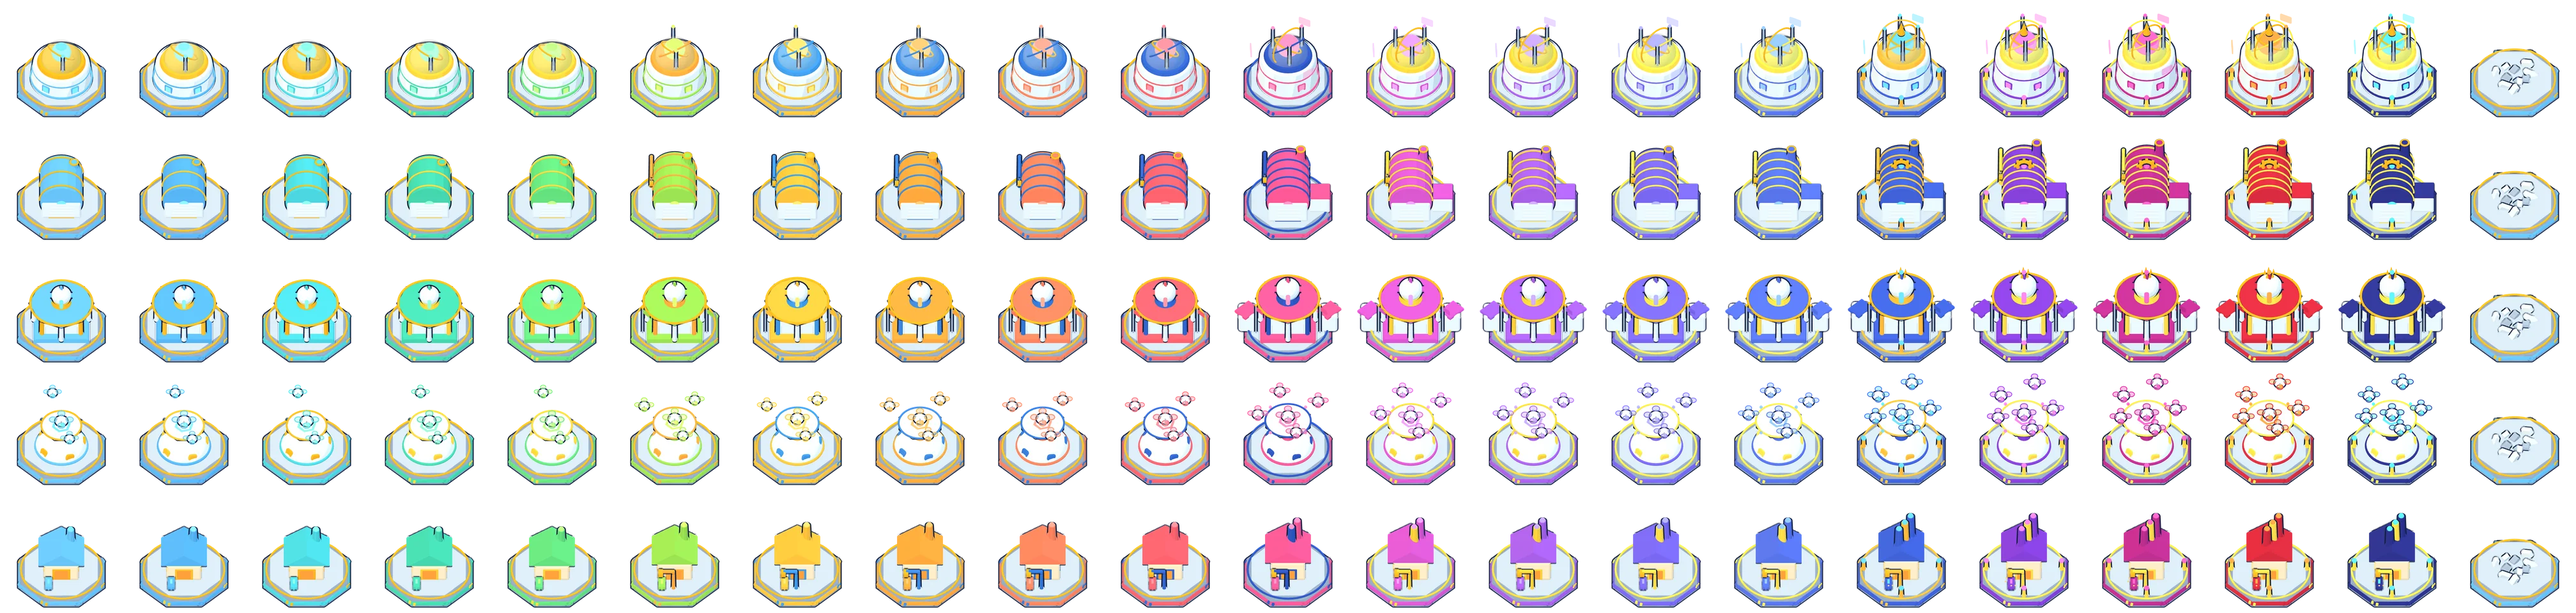
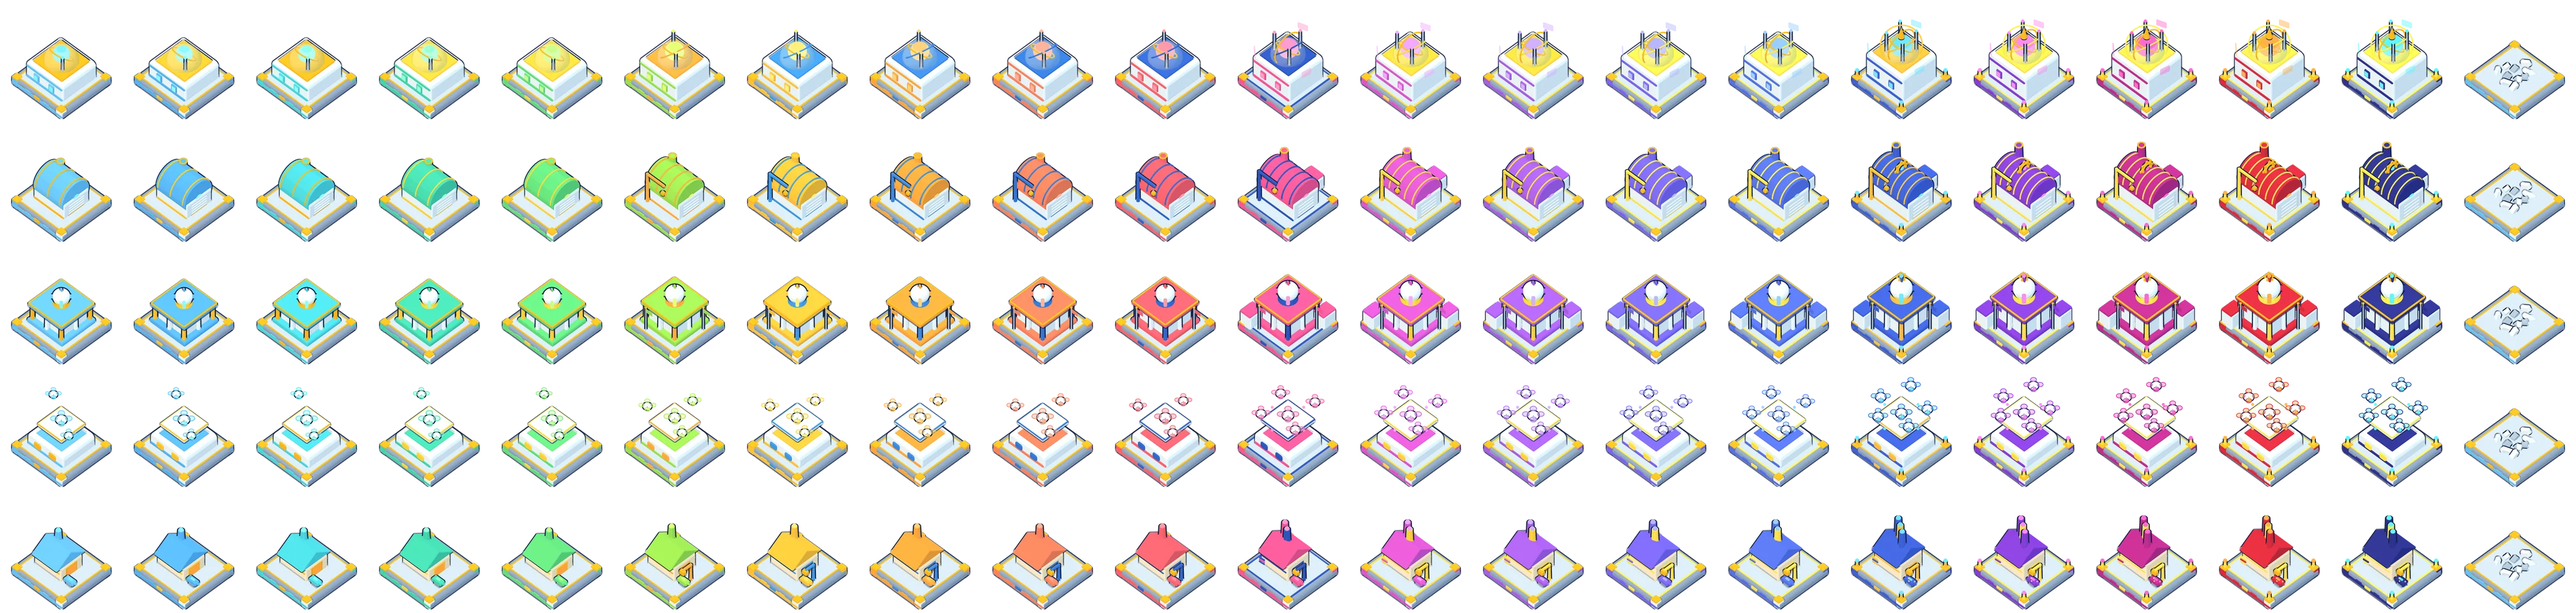
Army/research buildings on square, grid-aligned platforms with square bodies (patch 230)
Claude-Session: https://claude.ai/code/session_01ENEEn5GFJwhnH2TVtQL75A

diff --git a/features/render3d/army428.html b/features/render3d/army428.html
@@ -40,20 +40,24 @@ let cur=null;
 function mats(lv){const p=PAL[Math.max(1,Math.min(20,lv))-1];return {A:M(p[0]),B:M(p[1]),G:new T.MeshBasicMaterial({color:p[2]}),GL:new T.MeshBasicMaterial({color:p[2],transparent:true,opacity:0.45}),glow:p[2]};}
 function tierOf(lv){return lv>=16?3:lv>=11?2:lv>=6?1:0;}
 function pad(root,m,t){
- const PADM=M(0x8396b4);const p=mesh(lathe([[0,0],[1.95,0],[2.02,0.08],[1.92,0.32],[1.72,0.44],[0,0.44]],8),PADM,root);const top=mesh(cyl(1.7,1.7,0.04,8),M(0xb9c7da),root,0);top.position.y=0.45;top.rotation.y=Math.PI/8;p.rotation.y=Math.PI/8;
- const sk=mesh(lathe([[1.99,0.1],[2.01,0.14],[1.95,0.28],[1.93,0.3]],8),m.A,root,0);sk.rotation.y=Math.PI/8;
- mesh(torus(1.74,0.045),t>=2?m.B:GOLD,root,0).position.y=0.44;
- const n=8;for(let i=0;i<n;i++){const a=i/n*Math.PI*2+Math.PI/8;const tab=mesh(rbox(0.3,0.12,0.06,0.03),i%2?m.B:m.A,root,1);tab.position.set(Math.cos(a)*1.93,0.2,Math.sin(a)*1.93);tab.rotation.y=-a+Math.PI/2;tab.rotation.x=-0.45;}
- if(t>=3)for(let i=0;i<4;i++){const a=i/4*Math.PI*2+Math.PI/4;const l=mesh(cyl(0.07,0.09,0.5,16),m.B,root);l.position.set(Math.cos(a)*1.62,0.68,Math.sin(a)*1.62);const b=new T.Mesh(sph(0.11),m.G);b.position.set(Math.cos(a)*1.62,0.98,Math.sin(a)*1.62);root.add(b);}
+ // square platform that sits on the 2x2 grid tiles (reads as a diamond in the isometric view)
+ const PADM=M(0x8396b4);mesh(rbox(3.3,0.36,3.3,0.12),PADM,root).position.y=0.18;
+ mesh(rbox(3.36,0.12,3.36,0.05),m.A,root,0).position.y=0.12;
+ const top=mesh(rbox(2.98,0.08,2.98,0.04),M(0xb9c7da),root,0);top.position.y=0.4;
+ const tr=t>=2?m.B:GOLD;for(const [x,z,w,d] of [[0,1.48,2.9,0.06],[0,-1.48,2.9,0.06],[1.48,0,0.06,2.9],[-1.48,0,0.06,2.9]])mesh(rbox(w,0.05,d,0.02),tr,root,0).position.set(x,0.45,z);
+ for(const sx of [-1,1])for(const sz of [-1,1]){const c=mesh(rbox(0.34,0.44,0.34,0.06),i2c(m,sx,sz),root);c.position.set(sx*1.5,0.22,sz*1.5);mesh(rbox(0.36,0.06,0.36,0.03),GOLD,root,0).position.set(sx*1.5,0.46,sz*1.5);
+  if(t>=3){const l=mesh(cyl(0.06,0.08,0.4,12),m.B,root);l.position.set(sx*1.5,0.68,sz*1.5);const bb=new T.Mesh(sph(0.1),m.G);bb.position.set(sx*1.5,0.92,sz*1.5);root.add(bb);}}
+ for(let i=0;i<3;i++){const tab=mesh(rbox(0.36,0.14,0.06,0.03),i%2?m.B:m.A,root,0);tab.position.set(-0.6+i*0.6,0.2,1.66);const tab2=mesh(rbox(0.06,0.14,0.36,0.03),i%2?m.B:m.A,root,0);tab2.position.set(1.66,0.2,-0.6+i*0.6);}
 }
+function i2c(m,sx,sz){return (sx+sz)===0?m.A:WHITE;}
 function flag(root,m,x,z,h){const f=new T.Group();f.position.set(x,0.44,z);root.add(f);mesh(cyl(0.035,0.035,h,10),STEEL,f).position.y=h/2;const cl=m.A.clone();cl.side=T.DoubleSide;const fl=mesh(new T.PlaneGeometry(0.42,0.26),cl,f,0);fl.position.set(0.22,h-0.16,0);mesh(sph(0.06),GOLD,f,0).position.y=h+0.03;}
 // 1 อาคารเทคโนโลยี: round lab, glass dome with a glowing energy core, antennas; rings/holo panels with tiers.
 function tech(lv){const m=mats(lv),t=tierOf(lv),o=new T.Group(),r=new T.Group();o.add(r);pad(r,m,t);
  const h=[1.0,1.2,1.4,1.6][t];
- mesh(lathe([[0,0.44],[1.28,0.44],[1.32,0.5],[1.22,0.44+h],[1.05,0.5+h],[0,0.5+h]],40),WHITE,r);
- mesh(torus(1.3,0.06),m.A,r,0).position.y=0.6;mesh(torus(1.2,0.06),m.A,r,0).position.y=0.44+h*0.75;
- for(let i=0;i<6;i++){const a=i/6*Math.PI*2+0.3;const w=mesh(rbox(0.32,0.38,0.08,0.06),m.A,r,0);w.position.set(Math.cos(a)*1.24,0.44+h*0.45,Math.sin(a)*1.24);w.rotation.y=-a+Math.PI/2;const gl=new T.Mesh(rbox(0.22,0.26,0.05,0.04),m.G);gl.position.copy(w.position).multiplyScalar(1.02);gl.rotation.copy(w.rotation);r.add(gl);}
- const top=0.5+h;mesh(cyl(0.98,1.05,0.16,40),m.B,r).position.y=top+0.08;
+ mesh(rbox(2.3,h,2.3,0.16),WHITE,r).position.y=0.44+h/2;
+ mesh(rbox(2.36,0.12,2.36,0.05),m.A,r,0).position.y=0.56;mesh(rbox(2.36,0.1,2.36,0.05),m.A,r,0).position.y=0.44+h*0.82;
+ for(const [x,z,ry] of [[1.16,-0.5,0],[1.16,0.5,0],[-0.5,1.16,Math.PI/2],[0.5,1.16,Math.PI/2]]){const w=mesh(rbox(0.08,0.4,0.34,0.05),m.A,r,0);w.position.set(x,0.44+h*0.45,z);w.rotation.y=ry;const gl=new T.Mesh(rbox(0.06,0.3,0.24,0.04),m.G);gl.position.set(x*1.03,0.44+h*0.45,z*1.03);gl.rotation.y=ry;r.add(gl);}
+ const top=0.44+h;mesh(rbox(1.9,0.16,1.9,0.06),m.B,r).position.y=top+0.08;
  const core=new T.Mesh(sph(0.42+t*0.04),m.G);core.position.y=top+0.62;r.add(core);
  const dome=new T.Mesh(sph(0.86,1,0.95,1),GLASS);dome.position.y=top+0.18;r.add(dome);
  for(let i=0;i<=t;i++){const ring=mesh(new T.TorusGeometry(0.62+i*0.13,0.035,10,48),i%2?m.B:GOLD,r,0);ring.position.y=top+0.62;ring.rotation.set(0.9+i*0.5,i*0.8,0.3*i);}
@@ -64,12 +68,12 @@ function tech(lv){const m=mats(lv),t=tierOf(lv),o=new T.Group(),r=new T.Group();
 // 2 โรงประกอบยานบุก: arched hangar with a big door, crane arm, chimney; more bays with tiers.
 function workshop(lv){const m=mats(lv),t=tierOf(lv),o=new T.Group(),r=new T.Group();o.add(r);pad(r,m,t);
  const L=[1.9,2.1,2.3,2.5][t],W=1.7,H=[0.95,1.05,1.15,1.25][t];
- const body=mesh(rbox(L,H,W,0.12),WHITE,r);body.position.y=0.44+H/2;body.rotation.y=-Math.PI/4;mesh(rbox(L+0.04,0.14,W+0.04,0.05),m.B,r,0).rotation.y=-Math.PI/4;
- const roof=new T.Group();roof.position.y=0.44+H;roof.rotation.y=-Math.PI/4;r.add(roof);
+ const body=mesh(rbox(L,H,W,0.12),WHITE,r);body.position.y=0.44+H/2;body.rotation.y=0;mesh(rbox(L+0.04,0.14,W+0.04,0.05),m.B,r,0).position.y=0.5;
+ const roof=new T.Group();roof.position.y=0.44+H;roof.rotation.y=0;r.add(roof);
  const ar=new T.CylinderGeometry(W/2+0.06,W/2+0.06,L+0.06,40);ar.rotateZ(Math.PI/2);mesh(ar,m.A,roof);
  for(let i=0;i<=t+2;i++){const rib=mesh(new T.TorusGeometry(W/2+0.09,0.035,8,32,Math.PI),m.B,roof,0);rib.rotation.y=Math.PI/2;rib.position.x=-L/2+0.12+i*(L-0.24)/(t+2);}
  // door on the front face (facing camera, +x+z)
- const front=new T.Group();front.rotation.y=-Math.PI/4;front.position.y=0.44;r.add(front);
+ const front=new T.Group();front.rotation.y=0;front.position.y=0.44;r.add(front);
  const door=mesh(rbox(0.06,H*0.8,W*0.66,0.05),m.B,front,1);door.position.set(L/2+0.02,H*0.4,0);
  for(let i=0;i<4;i++){const s=mesh(rbox(0.07,0.04,W*0.6,0.02),WHITE,front,0);s.position.set(L/2+0.05,0.15+i*H*0.18,0);}
  const sign=new T.Mesh(new T.CircleGeometry(0.2,24),m.G);sign.position.set(L/2+0.06,H*0.9+0.05,0);sign.rotation.y=Math.PI/2;front.add(sign);
@@ -84,10 +88,10 @@ function workshop(lv){const m=mats(lv),t=tierOf(lv),o=new T.Group(),r=new T.Grou
 // 3 หอบัญชาการหุ่น: columned hall topped with a mech helmet emblem; wings, banners and crown with tiers.
 function herohall(lv){const m=mats(lv),t=tierOf(lv),o=new T.Group(),r=new T.Group();o.add(r);pad(r,m,t);
  const H=[0.9,1.05,1.2,1.35][t];
- const st=mesh(rbox(2.3,0.24,2.3,0.08),m.A,r);st.position.y=0.56;st.rotation.y=Math.PI/4;
- const hall=mesh(rbox(1.7,H,1.7,0.12),WHITE,r);hall.position.y=0.68+H/2;hall.rotation.y=Math.PI/4;
- for(let i=0;i<8;i++){const a=i/8*Math.PI*2;const c=mesh(cyl(0.09,0.1,H,16),i%2?WHITE:m.B,r);c.position.set(Math.cos(a)*1.18,0.68+H/2,Math.sin(a)*1.18);}
- const roofY=0.68+H;mesh(cyl(1.38,1.3,0.18,8),m.A,r).position.y=roofY+0.09;mesh(torus(1.34,0.05),GOLD,r,0).position.y=roofY+0.18;
+ const st=mesh(rbox(2.3,0.24,2.3,0.08),m.A,r);st.position.y=0.56;
+ const hall=mesh(rbox(1.7,H,1.7,0.12),WHITE,r);hall.position.y=0.68+H/2;
+ for(const [x,z] of [[1,1],[1,-1],[-1,1],[1,0],[0,1],[-1,-1],[-1,0],[0,-1]]){const c=mesh(cyl(0.09,0.1,H,16),(x&&z)?m.B:WHITE,r);c.position.set(x*0.98,0.68+H/2,z*0.98);}
+ const roofY=0.68+H;mesh(rbox(2.25,0.18,2.25,0.06),m.A,r).position.y=roofY+0.09;for(const [x,z,w,d] of [[0,1.12,2.2,0.06],[0,-1.12,2.2,0.06],[1.12,0,0.06,2.2],[-1.12,0,0.06,2.2]])mesh(rbox(w,0.06,d,0.02),GOLD,r,0).position.set(x,roofY+0.19,z);
  // helmet emblem
  const hg=new T.Group();hg.position.y=roofY+0.2;r.add(hg);hg.scale.setScalar(0.85+t*0.08);
  mesh(cyl(0.42,0.5,0.22,24),m.B,hg).position.y=0.11;
@@ -96,17 +100,17 @@ function herohall(lv){const m=mats(lv),t=tierOf(lv),o=new T.Group(),r=new T.Grou
  mesh(rbox(0.1,0.44,0.08,0.04),m.A,hg).position.set(0,0.98,0);
  for(const s of [-1,1]){const ear=mesh(cyl(0.12,0.12,0.12,16),m.A,hg);ear.rotation.z=Math.PI/2;ear.rotation.y=Math.PI/4;ear.position.set(s*0.36,0.55,-s*0.36);}
  if(t>=1){flag(r,m,1.35,-0.6,1.4+t*0.15);flag(r,m,-0.6,1.35,1.4+t*0.15);}
- if(t>=2)for(const s of [-1,1]){const w=mesh(rbox(0.6,H*0.7,0.8,0.1),WHITE,r);w.position.set(s*1.25,0.44+H*0.35,-s*1.25);w.rotation.y=Math.PI/4;mesh(rbox(0.64,0.1,0.84,0.04),m.A,r,0).position.set(s*1.25,0.44+H*0.72,-s*1.25);}
+ if(t>=2)for(const s of [-1,1]){const w=mesh(rbox(0.6,H*0.7,0.8,0.1),WHITE,r);w.position.set(s*1.25,0.44+H*0.35,-s*1.25);mesh(rbox(0.64,0.1,0.84,0.04),m.A,r,0).position.set(s*1.25,0.44+H*0.72,-s*1.25);}
  if(t>=3){const cr=new T.Group();cr.position.y=roofY+0.2+1.25*(0.85+t*0.08);r.add(cr);for(let i=0;i<5;i++){const a=i/5*Math.PI*2;const sp=mesh(new T.ConeGeometry(0.06,0.28,10),GOLD,cr,0);sp.position.set(Math.cos(a)*0.2,0.1,Math.sin(a)*0.2);}const gem=new T.Mesh(sph(0.1),m.G);gem.position.y=0.1;cr.add(gem);}
  return o;}
 // 4 ศูนย์โดรนคู่หู: nest dome with a raised landing pad; hovering mini drones (more with tiers).
 function drone(m,p,parent,s){const g=new T.Group();g.position.copy(p);g.scale.setScalar(s);parent.add(g);mesh(sph(0.22,1,0.55,1),WHITE,g);const e=new T.Mesh(sph(0.08),m.G);e.position.set(0.17,0.02,0.1);g.add(e);
  for(let i=0;i<4;i++){const a=i/4*Math.PI*2+Math.PI/4;mesh(cyl(0.025,0.025,0.26,6),STEEL,g,0).position.set(Math.cos(a)*0.17,0.04,Math.sin(a)*0.17);const rot=new T.Mesh(cyl(0.13,0.13,0.015,20),m.GL);rot.position.set(Math.cos(a)*0.3,0.08,Math.sin(a)*0.3);g.add(rot);mesh(torus(0.13,0.015),m.A,g,0).position.set(Math.cos(a)*0.3,0.08,Math.sin(a)*0.3);}}
 function dronehub(lv){const m=mats(lv),t=tierOf(lv),o=new T.Group(),r=new T.Group();o.add(r);pad(r,m,t);
- const nest=mesh(sph(1.12,1,0.62,1),WHITE,r);nest.position.y=0.44;mesh(torus(1.1,0.07),m.A,r,0).position.y=0.5;
- for(let i=0;i<5;i++){const a=i/5*Math.PI*2+0.4;const hole=mesh(rbox(0.3,0.24,0.08,0.08),m.B,r,0);hole.position.set(Math.cos(a)*0.98,0.72,Math.sin(a)*0.98);hole.rotation.y=-a+Math.PI/2;hole.rotation.x=-0.3;}
- const H=[0.7,0.85,1.0,1.15][t];const col=mesh(cyl(0.22,0.3,H,24),m.A,r);col.position.y=1.0+H/2;
- const py=1.0+H;const pd=mesh(cyl(0.9+t*0.06,0.8+t*0.06,0.14,8),WHITE,r);pd.position.y=py;pd.rotation.y=Math.PI/8;mesh(torus(0.86+t*0.06,0.04),m.B,r,0).position.y=py+0.08;
+ mesh(rbox(2.2,0.7,2.2,0.18),WHITE,r).position.y=0.79;mesh(rbox(2.26,0.12,2.26,0.05),m.A,r,0).position.y=0.6;mesh(rbox(1.7,0.14,1.7,0.06),m.A,r).position.y=1.18;
+ for(const [x,z,ry] of [[1.11,-0.5,Math.PI/2],[1.11,0.5,Math.PI/2],[-0.5,1.11,0],[0.5,1.11,0]]){const hole=mesh(rbox(0.36,0.28,0.06,0.08),m.B,r,0);hole.position.set(x,0.82,z);hole.rotation.y=ry;}
+ const H=[0.6,0.75,0.9,1.05][t];const col=mesh(rbox(0.5,H,0.5,0.08),m.A,r);col.position.y=1.25+H/2;
+ const py=1.25+H;const pw=1.6+t*0.1;mesh(rbox(pw,0.14,pw,0.05),WHITE,r).position.y=py;mesh(rbox(pw+0.04,0.05,pw+0.04,0.02),m.B,r,0).position.y=py+0.06;
  const hx=new T.Mesh(new T.RingGeometry(0.3,0.42,6),m.G);hx.rotation.x=-Math.PI/2;hx.position.y=py+0.08;r.add(hx);
  const n=[2,3,4,5][t];for(let i=0;i<n;i++){const a=i/n*Math.PI*2+0.5;drone(m,new T.Vector3(Math.cos(a)*(1.25+0.1*(i%2)),py+0.5+0.25*(i%2)+t*0.06,Math.sin(a)*(1.25+0.1*(i%2))),r,0.9+t*0.06);}
  drone(m,new T.Vector3(0,py+0.35,0),r,1.2);
@@ -115,7 +119,7 @@ function dronehub(lv){const m=mats(lv),t=tierOf(lv),o=new T.Group(),r=new T.Grou
  return o;}
 // 5 โรงตีอุปกรณ์: stone-and-steel forge, glowing furnace mouth, chimneys, big anvil; hammer arm with tiers.
 function forge(lv){const m=mats(lv),t=tierOf(lv),o=new T.Group(),r=new T.Group();o.add(r);pad(r,m,t);
- const H=[0.9,1.0,1.1,1.2][t];const g=new T.Group();g.rotation.y=-Math.PI/4;r.add(g);
+ const H=[0.9,1.0,1.1,1.2][t];const g=new T.Group();g.rotation.y=0;r.add(g);
  const STONE=M(0xf1dcc0);const body=mesh(rbox(1.6,H,1.5,0.14),STONE,g);body.position.set(-0.2,0.44+H/2,0);
  const tri=new T.Shape();tri.moveTo(-0.92,0);tri.lineTo(0.92,0);tri.lineTo(0,0.62);tri.lineTo(-0.92,0);const pr=new T.ExtrudeGeometry(tri,{depth:1.62,bevelEnabled:true,bevelSize:0.05,bevelThickness:0.05,bevelSegments:3});pr.translate(0,0,-0.81);pr.rotateY(Math.PI/2);const roofM=mesh(pr,m.A,g);roofM.position.set(-0.2,0.44+H,0);
  for(let i=0;i<2;i++)mesh(rbox(1.64,0.07,1.54,0.03),i?m.B:STEEL,g,0).position.set(-0.2,0.6+i*H*0.45,0);

diff --git a/features/army428/army428.js b/features/army428/army428.js
@@ -27,7 +27,7 @@ function bonus428(t){var l=lv428(t);return l?K428[t].bonus(l)/100:0;}
 // ---------- art ----------
 var art428=new Image();art428.onload=function(){drawNeeded=true;};art428.src='assets/army428.webp';
 function draw428(b,p,size,col){if(!art428.complete||!art428.naturalWidth)return false;var row=ARMY428.kinds.indexOf(b.type);if(row<0)return false;
- var c=art428.naturalWidth/ARMY428.cols,w=size*1.08,h=w;ctx.drawImage(art428,col*c,row*c,c,c,p.x-w*ARMY428.ax,p.y-h*ARMY428.ay+size*.08,w,h);return true;}
+ var c=art428.naturalWidth/ARMY428.cols,w=size*1.2,h=w;ctx.drawImage(art428,col*c,row*c,c,c,p.x-w*ARMY428.ax,p.y-h*ARMY428.ay+size*.08,w,h);return true;}
 var newArt428=newBuildingArt;newBuildingArt=function(b,p,size){if(K428[b.type]&&draw428(b,p,size,Math.max(1,Math.min(20,b.lv||1))-1))return;return newArt428.apply(this,arguments);};
 var wreck428=drawWreck;drawWreck=function(b,p,size,enemy){if(K428[b.type]&&draw428(b,p,size,20))return;return wreck428.apply(this,arguments);};
 var card428=cardSprite;cardSprite=function(i){var t=TYPES428.find(function(k){return K428[k].sprite===i;});if(t)return '<span class="icon art428" style="background-position:0% '+(ARMY428.kinds.indexOf(t)*25)+'%"></span>';return card428.apply(this,arguments);};
